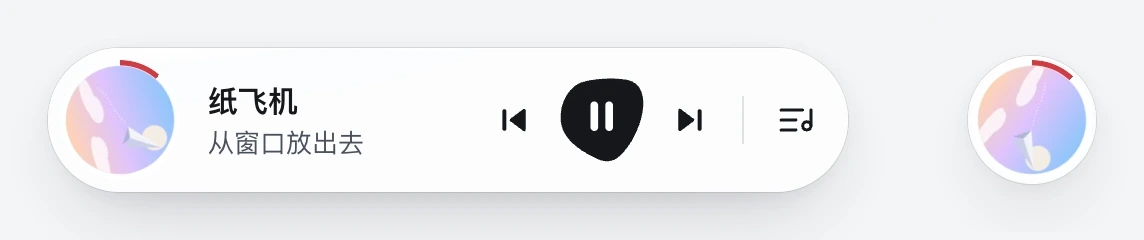
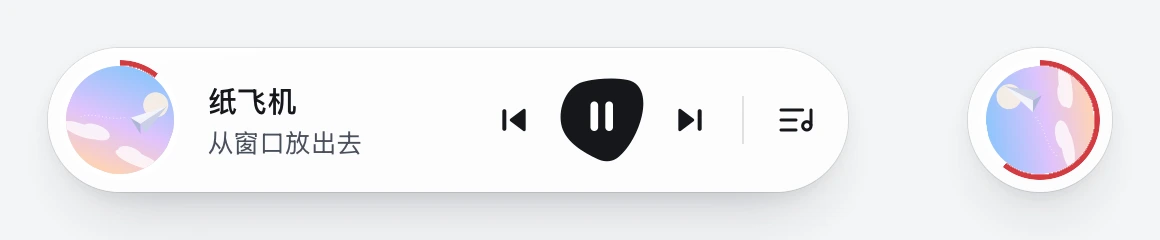
fix(player): 统一桌面播放条与圆形态高度
- 统一 bar 与圆形态的高度、圆角和唱片内边距
- 按共享高度计算居中偏移，保留移动端原有尺寸
- 更新变更记录与播放条状态配图

diff --git a/packages/kite-player/src/element/styles/player.css b/packages/kite-player/src/element/styles/player.css
@@ -135,7 +135,7 @@
 }
 
 /* ---------- 迷你播放条 / 圆形 ---------- */
-/* 播放条的尺寸:展开途中卡片里的播放条内容(.mini)用同一组值。 */
+/* 播放条与圆形共用高度;展开途中卡片里的播放条内容(.mini)用同一组尺寸。 */
 .kp {
   --bar-w: var(--kite-width);
   --bar-h: 72px;
@@ -151,7 +151,7 @@
   bottom: var(--kite-offset-y);
   width: var(--bar-w);
   height: var(--bar-h);
-  border-radius: 36px;
+  border-radius: calc(var(--bar-h) / 2);
   overflow: hidden;
   color: var(--kite-fg);
   background: var(--kite-glass);
@@ -311,13 +311,7 @@ img[data-err], img:not([src]) {
   background: var(--kite-line);
 }
 .kp[data-mode="orb"] .bar {
-  width: 64px;
-  height: 64px;
-  border-radius: 32px;
-}
-.kp[data-mode="orb"] .disc {
-  left: 2px;
-  top: 2px;
+  width: var(--bar-h);
 }
 .kp[data-mode="orb"] .bar-text, .kp[data-mode="orb"] .bar-ctl {
   opacity: 0;
@@ -343,14 +337,13 @@ img[data-err], img:not([src]) {
   margin-left: calc(var(--kite-width) / -2);
 }
 .kp[data-pos="center"][data-mode="orb"] .bar {
-  margin-left: -32px;
+  margin-left: calc(var(--bar-h) / -2);
 }
 .kp[data-device="mobile"] .bar {
   left: auto;
   right: 10px;
   margin-left: 0;
   bottom: calc(12px + env(safe-area-inset-bottom, 0px));
-  border-radius: 29px;
   /* 上拉展开由脚本跟手,浏览器不要把这个手势当成滚动。 */
   touch-action: none;
 }
@@ -389,15 +382,6 @@ img[data-err], img:not([src]) {
 }
 .kp[data-device="mobile"] .desk {
   display: none;
-}
-.kp[data-device="mobile"][data-mode="orb"] .bar {
-  width: 58px;
-  height: 58px;
-  border-radius: 29px;
-}
-.kp[data-device="mobile"][data-mode="orb"] .disc {
-  left: 5px;
-  top: 5px;
 }
 
 /* ---------- 展开:桌面面板 / 手机全屏 / 沉浸 ---------- */

diff --git a/packages/kite-player/CHANGELOG.md b/packages/kite-player/CHANGELOG.md
@@ -25,6 +25,7 @@ All notable changes to `@violetjs/kite-player` are documented here. Versions fol
 
 ### Fixed
 
+- Keep the desktop bar and collapsed orb at the same 72px height, with shared disc padding and correct centering; phones retain their 58px height.
 - Cancel pending position restoration when changing tracks, replacing the audio source or destroying the player, so switching quality cannot seek a different track to the previous track's position.
 - Restore cover, disc and ambient images after a failed image request when the next track's artwork loads successfully.
 
